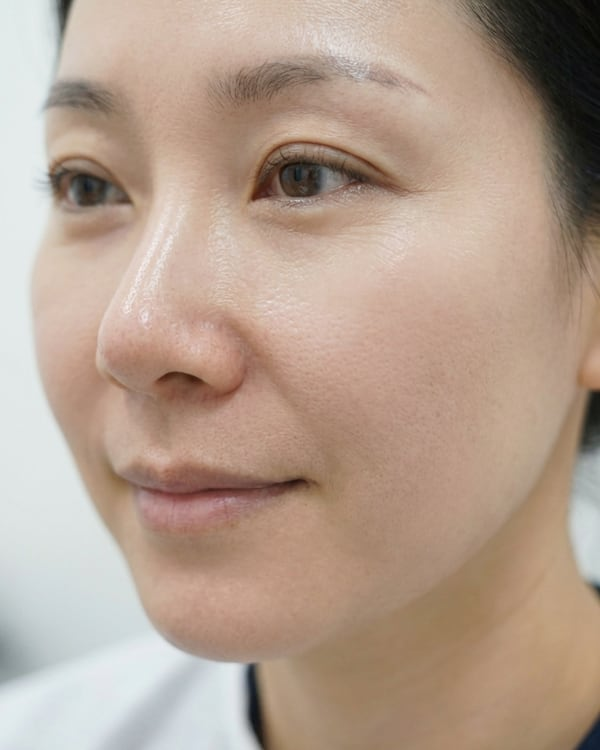
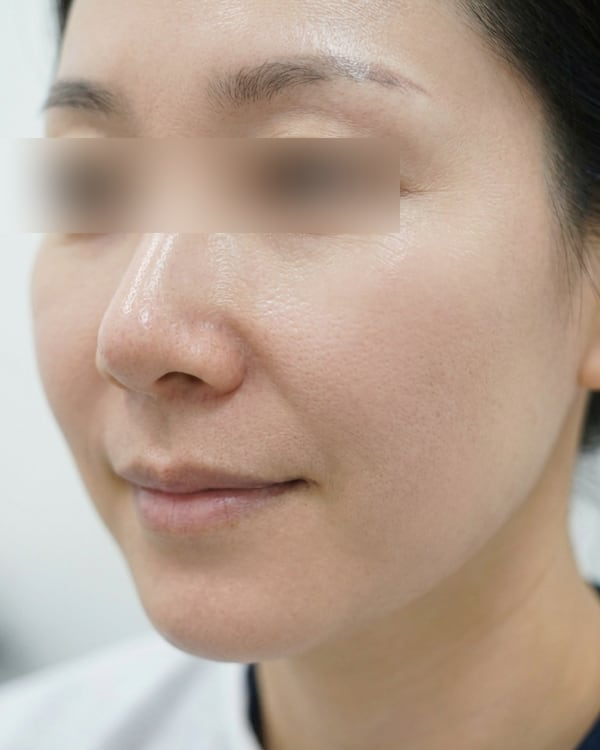
ui(product): enlarge hero sachet video + blur eyes on 체험단 before/after photos
Hero video height clamp 400-520 → 460-620. Anonymized the eyes on all 4
progression photos (사용 전·2·4·8주) with a strong blur band, clinic-style.

Changed region(s): [[0.42, 0.184, 0.69, 0.3067], [0.03, 0.184, 0.3, 0.3067]]

diff --git a/ko/product.html b/ko/product.html
@@ -138,7 +138,7 @@ nav{position:fixed;top:18px;left:0;right:0;z-index:50;pointer-events:none;}
 .b-dots{display:flex;gap:4px;justify-content:center;margin-top:6px;position:relative;z-index:2;}
 .b-dots span{width:4px;height:4px;border-radius:50%;background:rgba(212,181,181,.55);}
 .bottle-img{position:relative;z-index:1;height:580px;width:auto;max-width:100%;filter:drop-shadow(0 32px 60px rgba(58,26,34,.30)) drop-shadow(0 10px 22px rgba(58,26,34,.20));pointer-events:none;user-select:none;}
-.bottle-vid{position:relative;z-index:1;height:clamp(400px,46vw,520px);width:auto;max-width:100%;object-fit:cover;-webkit-mask-image:radial-gradient(ellipse 54% 64% at 50% 48%,#000 40%,rgba(0,0,0,0) 78%);mask-image:radial-gradient(ellipse 54% 64% at 50% 48%,#000 40%,rgba(0,0,0,0) 78%);pointer-events:none;user-select:none;}
+.bottle-vid{position:relative;z-index:1;height:clamp(460px,56vw,620px);width:auto;max-width:100%;object-fit:cover;-webkit-mask-image:radial-gradient(ellipse 54% 64% at 50% 48%,#000 40%,rgba(0,0,0,0) 78%);mask-image:radial-gradient(ellipse 54% 64% at 50% 48%,#000 40%,rgba(0,0,0,0) 78%);pointer-events:none;user-select:none;}
 .phero-r{position:relative;display:flex;flex-direction:column;justify-content:center;}
 .ph-lbl{font-size:10px;font-weight:700;letter-spacing:1.8px;text-transform:uppercase;color:var(--accent);}
 .ph-h{font-family:'Wanted Sans Variable','Wanted Sans','Pretendard',-apple-system,BlinkMacSystemFont,system-ui,sans-serif;font-weight:300;font-size:78px;line-height:1.15;letter-spacing:-2.8px;margin:18px 0 0;color:var(--ink);}

diff --git a/web/src/app/(marketing)/product/product.css b/web/src/app/(marketing)/product/product.css
@@ -105,7 +105,7 @@ nav{position:fixed;top:18px;left:0;right:0;z-index:50;pointer-events:none;}
 .b-dots{display:flex;gap:4px;justify-content:center;margin-top:6px;position:relative;z-index:2;}
 .b-dots span{width:4px;height:4px;border-radius:50%;background:rgba(212,181,181,.55);}
 .bottle-img{position:relative;z-index:1;height:580px;width:auto;max-width:100%;filter:drop-shadow(0 32px 60px rgba(58,26,34,.30)) drop-shadow(0 10px 22px rgba(58,26,34,.20));pointer-events:none;user-select:none;}
-.bottle-vid{position:relative;z-index:1;height:clamp(400px,46vw,520px);width:auto;max-width:100%;object-fit:cover;-webkit-mask-image:radial-gradient(ellipse 54% 64% at 50% 48%,#000 40%,rgba(0,0,0,0) 78%);mask-image:radial-gradient(ellipse 54% 64% at 50% 48%,#000 40%,rgba(0,0,0,0) 78%);pointer-events:none;user-select:none;}
+.bottle-vid{position:relative;z-index:1;height:clamp(460px,56vw,620px);width:auto;max-width:100%;object-fit:cover;-webkit-mask-image:radial-gradient(ellipse 54% 64% at 50% 48%,#000 40%,rgba(0,0,0,0) 78%);mask-image:radial-gradient(ellipse 54% 64% at 50% 48%,#000 40%,rgba(0,0,0,0) 78%);pointer-events:none;user-select:none;}
 .phero-r{position:relative;display:flex;flex-direction:column;justify-content:center;}
 .ph-lbl{font-size:10px;font-weight:700;letter-spacing:1.8px;text-transform:uppercase;color:var(--accent);}
 .ph-h{font-family:'Wanted Sans Variable','Wanted Sans','Pretendard',-apple-system,BlinkMacSystemFont,system-ui,sans-serif;font-weight:300;font-size:78px;line-height:1.15;letter-spacing:-2.8px;margin:18px 0 0;color:var(--ink);}
